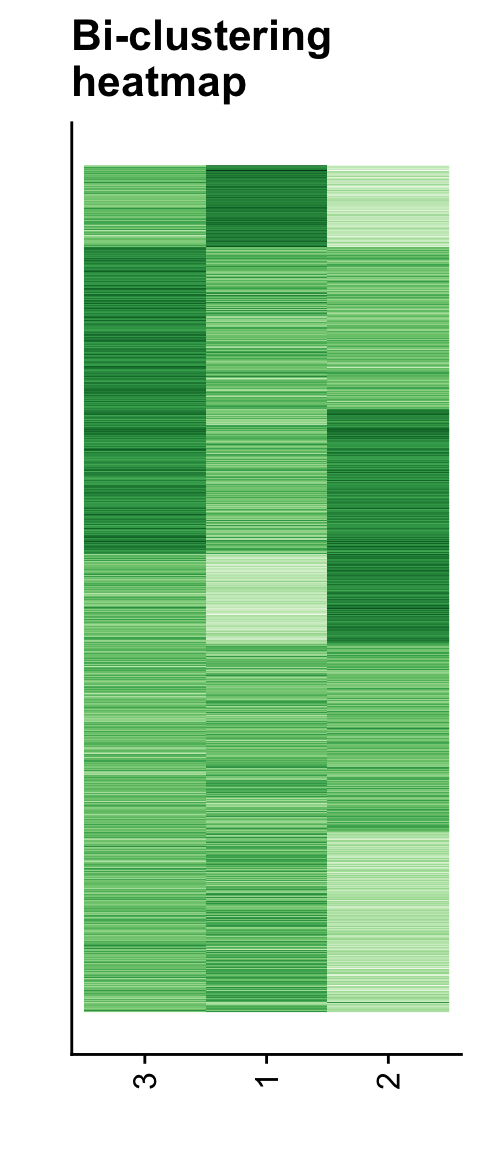
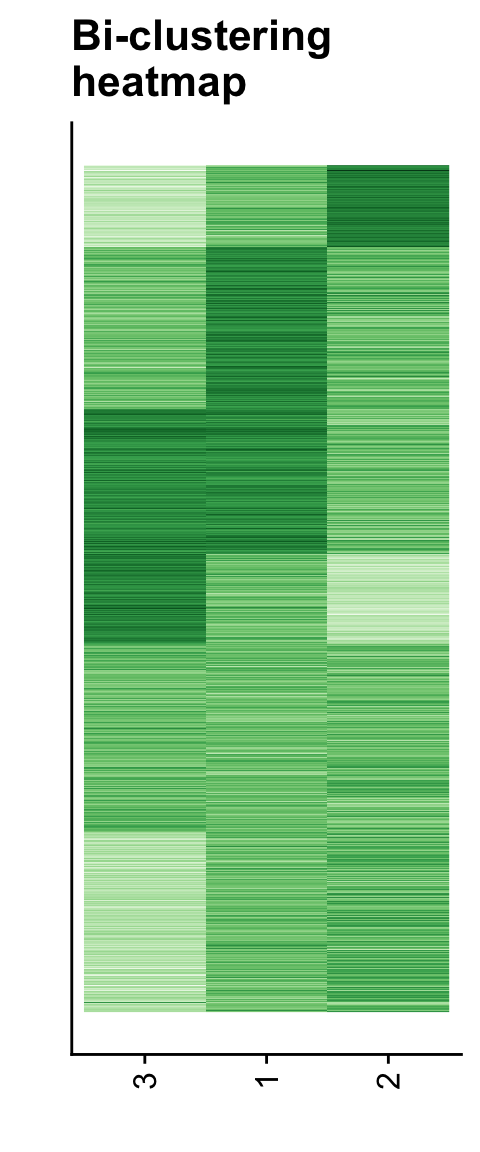
fix factor releveling

diff --git a/docs/downstream.html b/docs/downstream.html
@@ -409,7 +409,7 @@ $(document).ready(function () {
 <strong>Last updated:</strong> 2020-04-29
 </p>
 <p>
-<strong>Checks:</strong> <span class="glyphicon glyphicon-ok text-success" aria-hidden="true"></span> 6 <span class="glyphicon glyphicon-exclamation-sign text-danger" aria-hidden="true"></span> 1
+<strong>Checks:</strong> <span class="glyphicon glyphicon-ok text-success" aria-hidden="true"></span> 5 <span class="glyphicon glyphicon-exclamation-sign text-danger" aria-hidden="true"></span> 2
 </p>
 <p>
 <strong>Knit directory:</strong> <code>lieb/</code> <span class="glyphicon glyphicon-question-sign" aria-hidden="true" title="This is the local directory in which the code in this file was executed."> </span>
@@ -425,12 +425,12 @@ This reproducible <a href="http://rmarkdown.rstudio.com">R Markdown</a> analysis
 <div class="panel panel-default">
 <div class="panel-heading">
 <p class="panel-title">
-<a data-toggle="collapse" data-parent="#workflowr-checks" href="#strongRMarkdownfilestronguptodate"> <span class="glyphicon glyphicon-ok text-success" aria-hidden="true"></span> <strong>R Markdown file:</strong> up-to-date </a>
+<a data-toggle="collapse" data-parent="#workflowr-checks" href="#strongRMarkdownfilestronguncommittedchanges"> <span class="glyphicon glyphicon-exclamation-sign text-danger" aria-hidden="true"></span> <strong>R Markdown file:</strong> uncommitted changes </a>
 </p>
 </div>
-<div id="strongRMarkdownfilestronguptodate" class="panel-collapse collapse">
+<div id="strongRMarkdownfilestronguncommittedchanges" class="panel-collapse collapse">
 <div class="panel-body">
-<p>Great! Since the R Markdown file has been committed to the Git repository, you know the exact version of the code that produced these results.</p>
+<p>The R Markdown file has unstaged changes. To know which version of the R Markdown file created these results, you’ll want to first commit it to the Git repo. If you’re still working on the analysis, you can ignore this warning. When you’re finished, you can run <code>wflow_publish</code> to commit the R Markdown file and build the HTML.</p>
 </div>
 </div>
 </div>
@@ -497,16 +497,16 @@ This reproducible <a href="http://rmarkdown.rstudio.com">R Markdown</a> analysis
 <div class="panel panel-default">
 <div class="panel-heading">
 <p class="panel-title">
-<a data-toggle="collapse" data-parent="#workflowr-checks" href="#strongRepositoryversionstrongahrefhttpsgithubcomhillarykochclimbpagetreedb94e3b4950b934ec5a54fdd8af0f9277c8b0990targetblankdb94e3ba"> <span class="glyphicon glyphicon-ok text-success" aria-hidden="true"></span> <strong>Repository version:</strong> <a href="https://github.com/hillarykoch/climb_page/tree/db94e3b4950b934ec5a54fdd8af0f9277c8b0990" target="_blank">db94e3b</a> </a>
+<a data-toggle="collapse" data-parent="#workflowr-checks" href="#strongRepositoryversionstrongahrefhttpsgithubcomhillarykochclimbpagetree1c43a7f68cd9fb8c00f9aeb5c430b8528211643dtargetblank1c43a7fa"> <span class="glyphicon glyphicon-ok text-success" aria-hidden="true"></span> <strong>Repository version:</strong> <a href="https://github.com/hillarykoch/climb_page/tree/1c43a7f68cd9fb8c00f9aeb5c430b8528211643d" target="_blank">1c43a7f</a> </a>
 </p>
 </div>
[2 lines of base64/hex data omitted]
 <div class="panel-body">
 <p>
 Great! You are using Git for version control. Tracking code development and connecting the code version to the results is critical for reproducibility.
 </p>
 <p>
-The results in this page were generated with repository version <a href="https://github.com/hillarykoch/climb_page/tree/db94e3b4950b934ec5a54fdd8af0f9277c8b0990" target="_blank">db94e3b</a>. See the <em>Past versions</em> tab to see a history of the changes made to the R Markdown and HTML files.
+The results in this page were generated with repository version <a href="https://github.com/hillarykoch/climb_page/tree/1c43a7f68cd9fb8c00f9aeb5c430b8528211643d" target="_blank">1c43a7f</a>. See the <em>Past versions</em> tab to see a history of the changes made to the R Markdown and HTML files.
 </p>
 <p>
 Note that you need to be careful to ensure that all relevant files for the analysis have been committed to Git prior to generating the results (you can use <code>wflow_publish</code> or <code>wflow_git_commit</code>). workflowr only checks the R Markdown file, but you know if there are other scripts or data files that it depends on. Below is the status of the Git repository when the results were generated:
@@ -522,6 +522,9 @@ Ignored files:
     Ignored:    analysis/running_mcmc_cache/
     Ignored:    data/.DS_Store
     Ignored:    output/.DS_Store
+
+Unstaged changes:
+    Modified:   analysis/downstream.Rmd
 
 </code></pre>
 <p>
@@ -560,6 +563,23 @@ Message
 </tr>
 </thead>
 <tbody>
+<tr>
+<td>
+html
+</td>
+<td>
+<a href="https://rawcdn.githack.com/hillarykoch/climb_page/1c43a7f68cd9fb8c00f9aeb5c430b8528211643d/docs/downstream.html" target="_blank">1c43a7f</a>
+</td>
+<td>
+hillarykoch
+</td>
+<td>
+2020-04-29
+</td>
+<td>
+rebuilds the html because I forgot to
+</td>
+</tr>
 <tr>
 <td>
 Rmd
@@ -958,11 +978,12 @@ molten1 &lt;-
   <span class="dt">id.vars =</span> <span class="st">&quot;row&quot;</span>)
 
 <span class="co"># Rename the factor levels to match the dimensions</span>
-<span class="kw">levels</span>(molten1$variable) &lt;-<span class="st"> </span><span class="kw">paste</span>(<span class="dv">1</span>:<span class="dv">3</span>)[hc_col$order]
+<span class="kw">levels</span>(molten1$variable) &lt;-<span class="st"> </span><span class="kw">as.factor</span>(<span class="kw">paste</span>(<span class="dv">1</span>:<span class="dv">3</span>))
 
 <span class="co"># Plot the bi-clustering heatmap, like in the CLIMB manuscript</span>
 p1 &lt;-<span class="st"> </span><span class="kw">ggplot</span>(<span class="dt">data =</span> molten1,
-            <span class="kw">aes</span>(<span class="dt">x =</span> variable, <span class="dt">y =</span> row, <span class="dt">fill =</span> value)) +
+            <span class="kw">aes</span>(<span class="dt">x =</span> forcats::<span class="kw">fct_relevel</span>(variable, ~<span class="st"> </span>.x[hc_col$order]), <span class="co"># Relevel factors, for column sorting on the plot</span>
+                <span class="dt">y =</span> row, <span class="dt">fill =</span> value)) +
 <span class="st">    </span><span class="kw">geom_raster</span>() +
 <span class="st">    </span>cowplot::<span class="kw">theme_cowplot</span>() +
 <span class="st">    </span><span class="kw">theme</span>(<span class="dt">legend.position =</span> <span class="st">&quot;none&quot;</span>, <span class="dt">axis.ticks.y =</span> <span class="kw">element_blank</span>(), <span class="dt">axis.text.y =</span> <span class="kw">element_blank</span>()) +
